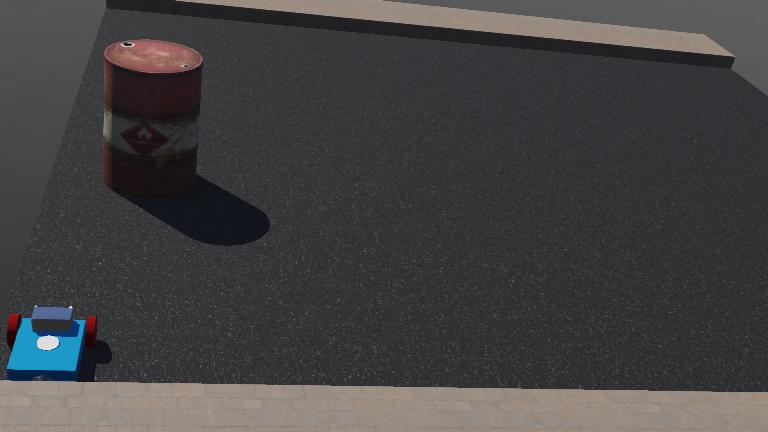
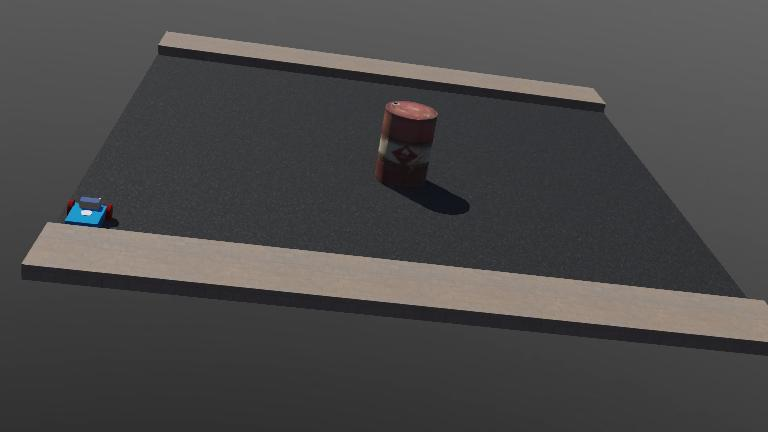
updated read me

diff --git a/README.md b/README.md
@@ -74,6 +74,34 @@ This project implements an autonomous robot system designed for pressure washing
 - **Simulation Environment**: Complete Webots simulation for testing and visualization
 - **UserInterface**: User interface integrated with WebSockets to allow for wireless control of robot
 
+## Sensor System
+
+The robot is equipped with three types of sensors that work together to enable autonomous navigation and obstacle avoidance:
+
+1. **Distance Sensors (Laser Range Finders)**:
+   - Three laser range finders positioned at the front, left, and right of the robot
+   - Measure distances up to 2 meters with millimeter precision
+   - Used for obstacle detection and wall following
+   - Convert raw distance measurements into forward and side distances for navigation
+
+2. **Wheel Encoders**:
+   - Measure wheel rotation on both left and right wheels
+   - Convert encoder ticks to distance traveled (8cm wheel radius)
+   - Track individual wheel movements for precise motion control
+   - Calculate forward motion and turning angles
+
+3. **Digital Compass**:
+   - Provides absolute heading information in radians
+   - Used for maintaining correct orientation during navigation
+   - Converts raw compass values to heading angles in the range [0, 2π]
+   - Essential for accurate path following and turns
+
+These sensors work together through the SensorManager class, which:
+- Aggregates data from all sensors
+- Performs necessary calculations and conversions
+- Provides a unified interface for the navigation system
+- Updates readings every simulation timestep
+
 ## Requirements
 
 - Python 3.8+
